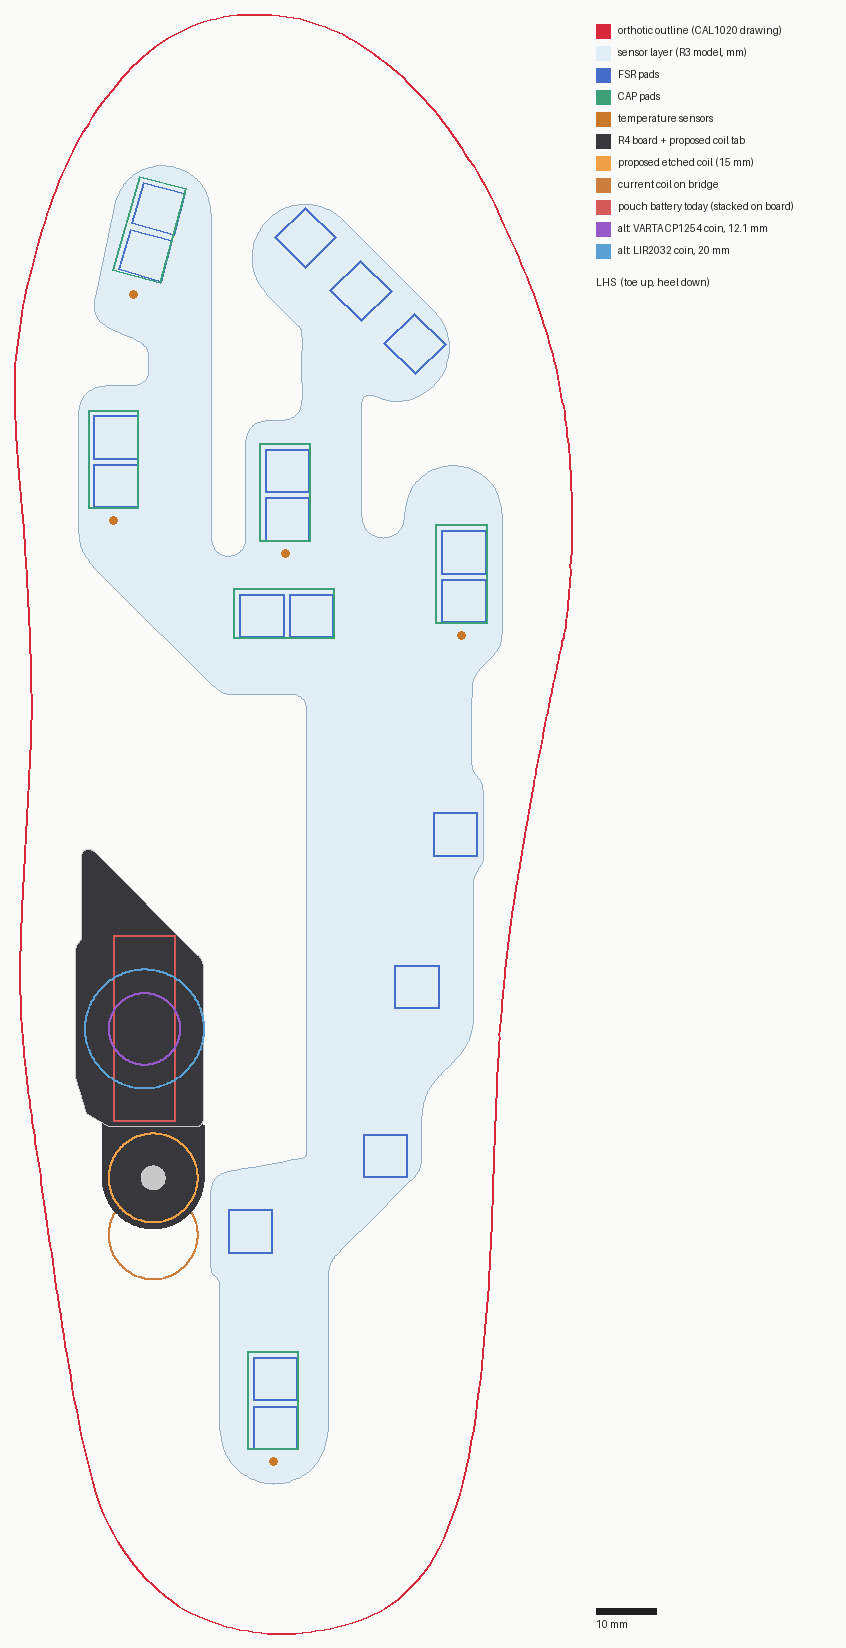
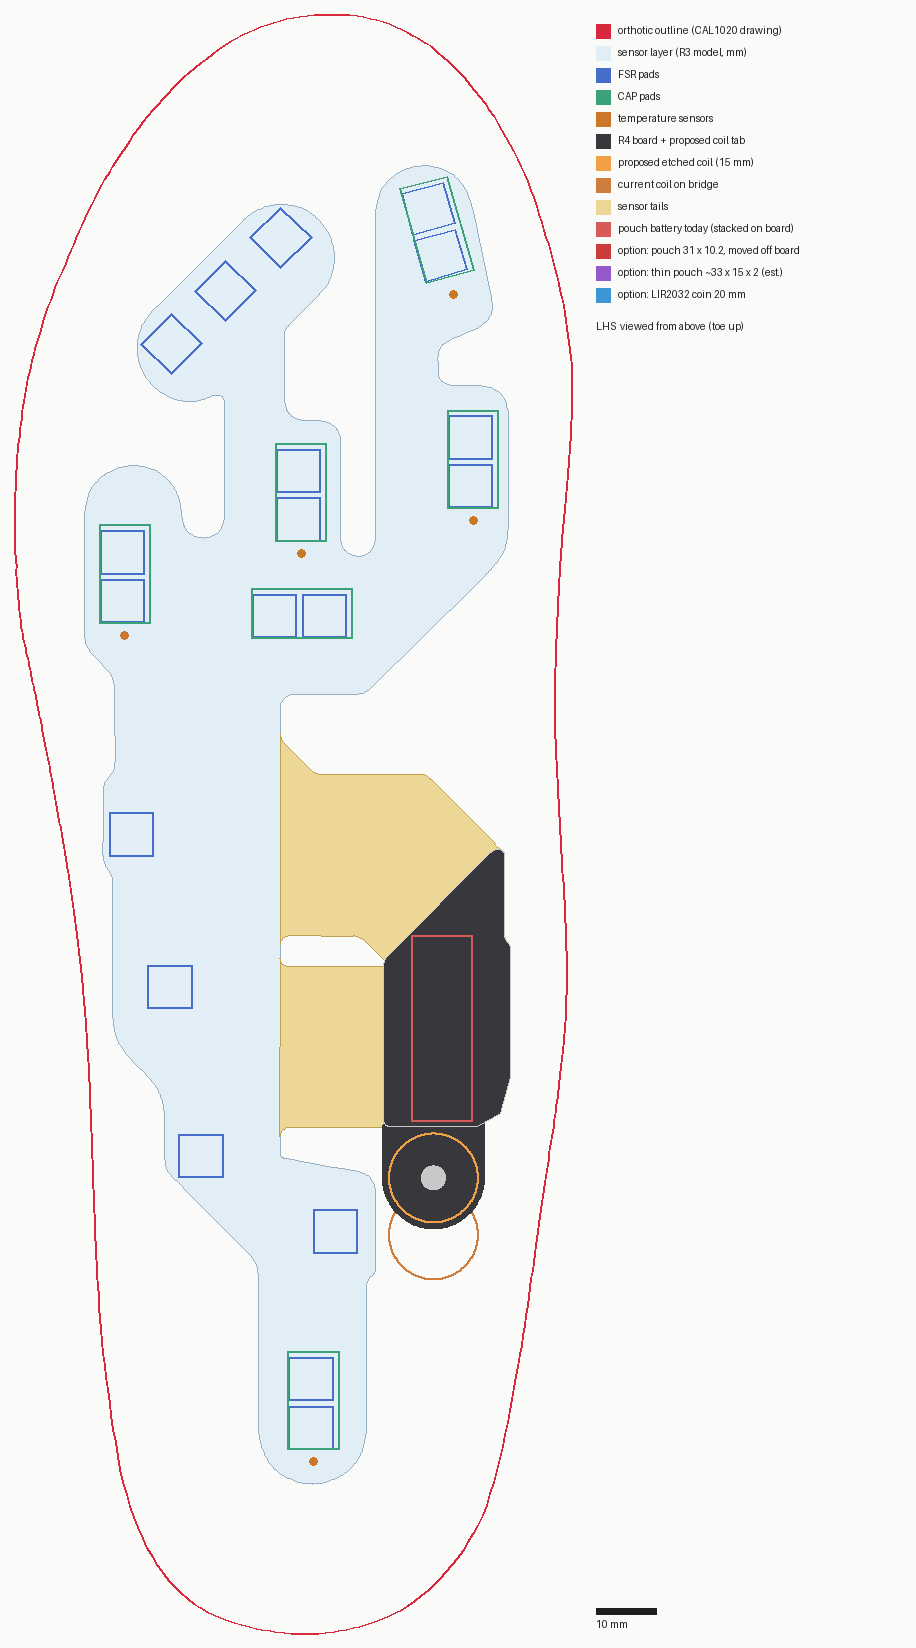
Layout study: battery placement search, sensor tails, view-from-above drawings
Grid search (1 mm / 15 deg) for flat battery positions inside the orthotic
(3 mm margin) and clear of sensor layer, tails and board+coil tab, nearest
to the board per zone. Toe-ward: pouch at 45 deg, 2.2 mm from board (LHS).
Heel-ward: pouch / thin pouch / LIR2032 just behind the coil tab. Nothing
fits beside the board. Reid's sketched positions clip the sensor layer and
sit 17-24 mm out. LHS drawing now mirrored so both feet show as viewed from
above (hallux medial); RHS was already in that view.

Claude-Session: https://claude.ai/code/session_01VVRppXprQDNcYst2JZ14Nv

diff --git a/hardware/r4-kicad/tools/layout_study.py b/hardware/r4-kicad/tools/layout_study.py
@@ -172,6 +172,62 @@ def orthotic_outline(memb):
                                 round((y1p - y0p) / ORTH_L, 3)]}
 
 
+EDGE_MARGIN = 3.0   # battery keeps this far inside the orthotic outline
+BATT_GAP = 1.0      # clearance from sensor layer, tails and board
+
+# candidate cells: (key, label, shape, dims, thickness mm)
+CELLS = [
+    ("pouch", "pouch today 31 x 10.2", "rect", (31.0, 10.2), 3.2),
+    ("thin", "thin pouch ~33 x 15 x 2 (est.)", "rect", (33.0, 15.0), 2.0),
+    ("lir2032", "LIR2032 coin 20 mm", "circle", (20.0,), 3.2),
+]
+
+
+def cell_geom(shape, dims, cx, cy, ang):
+    if shape == "circle":
+        return Point(cx, cy).buffer(dims[0] / 2, 48)
+    L_, W_ = dims
+    r = box(cx - L_ / 2, cy - W_ / 2, cx + L_ / 2, cy + W_ / 2)
+    return affinity.rotate(r, ang, origin=(cx, cy))
+
+
+def search_battery(allowed, keepout, board, by0, by1, sens):
+    """Exhaustive grid search (1 mm, 15 deg) for each candidate cell: legal
+    positions lie inside `allowed` and clear of `keepout`; within each zone
+    (toe-ward of the board / beside it / heel-ward) keep the one nearest the
+    board, i.e. the shortest battery connection."""
+    from shapely.prepared import prep
+    A, K = prep(allowed), prep(keepout)
+    pads = unary_union([Polygon(s_["poly"]) for k in ("FSR", "CAP")
+                        for s_ in sens.get(k, [])])
+    x0, _, x1, _ = allowed.bounds
+    out = []
+    for key, label, shape, dims, thick in CELLS:
+        best = {}
+        angs = [0] if shape == "circle" else range(0, 180, 15)
+        for ang in angs:
+            for cy in np.arange(by0 - 45, by1 + 45, 1.0):
+                for cx in np.arange(x0, x1, 1.0):
+                    g = cell_geom(shape, dims, cx, cy, ang)
+                    if not A.contains(g) or K.intersects(g):
+                        continue
+                    zone = ("toe-ward of board" if cy > by1 else
+                            "heel-ward of board" if cy < by0 else
+                            "beside board")
+                    d = g.distance(board)
+                    if zone not in best or d < best[zone][0]:
+                        best[zone] = (d, g, cx, cy, ang)
+        for zone, (d, g, cx, cy, ang) in sorted(best.items()):
+            out.append({"cell": key, "label": label, "zone": zone,
+                        "thickness_mm": thick,
+                        "centre": [round(cx, 1), round(cy, 1)],
+                        "angle_deg": ang,
+                        "gap_to_board_mm": round(d, 1),
+                        "clear_of_pads_mm": round(g.distance(pads), 1),
+                        "geom": g})
+    return out
+
+
 def register(src, dst):
     """Place src onto dst: 8 orientations, centroid-aligned, best IoU."""
     best = None
@@ -286,6 +342,18 @@ def study(side):
 
     orth, orth_meta = orthotic_outline(memb)
 
+    # sensor tails and their kapton covers: thin parts (0.25 / 0.70 mm) other
+    # than the membrane, larger than 5 mm, touching the board's neighbourhood
+    tails = unary_union([
+        footprint(p["tri"]) for p in parts
+        if p is not memb_part and p is not pcb_part
+        and (abs(p["size"][2] - 0.25) < 0.05 or abs(p["size"][2] - 0.70) < 0.05)
+        and max(p["size"][0], p["size"][1]) > 5
+        and footprint(p["tri"]).distance(pcb_r3) < 3.0])
+    keepout = unary_union([memb, tails, board_v3]).buffer(BATT_GAP)
+    allowed = orth.buffer(-EDGE_MARGIN)
+    placements = search_battery(allowed, keepout, board_v3, by0, by1, sens_mm)
+
     def edge_clearance(g):
         return round(orth.exterior.distance(g) if orth.contains(g)
                      else -g.difference(orth).area, 2)
@@ -307,7 +375,8 @@ def study(side):
         "tab": tab_only, "board_v3": board_v3,
         "tab_coil": Point(tab_c).buffer(COIL_OD / 2, 64),
         "magnet": Point(tab_c).buffer(MAGNET_D / 2, 32),
-        "sensors": sens_mm, "orth": orth,
+        "sensors": sens_mm, "orth": orth, "tails": tails,
+        "placements": placements,
         "report": {
             "r4_to_r3_iou": round(iou_b, 4), "r4_mirror": mir, "r4_rot": rot,
             "png_registration": reg,
@@ -318,6 +387,8 @@ def study(side):
             "proposed_board_mm": [round(board_v3.bounds[2] - board_v3.bounds[0], 2),
                                   round(board_v3.bounds[3] - board_v3.bounds[1], 2)],
             "tab_area_on_membrane_frac": round(on_membrane, 3),
+            "battery_placements": [
+                {k: v for k, v in pl.items() if k != "geom"} for pl in placements],
             "sensors_within_2mm_of_tab": hits,
             "orthotic_trace": orth_meta,
             "membrane_inside_orthotic": bool(orth.buffer(1.0).contains(memb)),
@@ -330,18 +401,25 @@ def study(side):
     }
 
 
-def draw(res, ppmm=6):
+# FSR1/CAP1 (hallux) land on the drawing's left for both models, so the LHS
+# model frame is a view from below; mirror it to show both feet from above.
+DORSAL_MIRROR = {"LHS": True, "RHS": False}
+
+
+def draw(res, ppmm=6, placements_to_draw=None):
     m = res["memb"]
+    mirror = DORSAL_MIRROR[res["side"]]
     allg = unary_union([m, res["cur_coil"], res["board_v3"], res["orth"]])
     x0, y0, x1, y1 = allg.bounds
     pad = 14
-    W = int((x1 - x0) * ppmm) + 2 * pad + 260
+    W = int((x1 - x0) * ppmm) + 2 * pad + 330
     H = int((y1 - y0) * ppmm) + 2 * pad
     img = Image.new("RGB", (W, H), (250, 250, 248))
     dr = ImageDraw.Draw(img)
 
     def P(x, y):
-        return (pad + (x - x0) * ppmm, pad + (y1 - y) * ppmm)
+        px = (x1 - x) if mirror else (x - x0)
+        return (pad + px * ppmm, pad + (y1 - y) * ppmm)
 
     def poly(g, fill=None, outline=None, width=1):
         geoms = getattr(g, "geoms", [g])
@@ -364,18 +442,22 @@ def draw(res, ppmm=6):
                 dr.ellipse([cx - 4, cy - 4, cx + 4, cy + 4], fill=col)
             else:
                 poly(pg, outline=col, width=2)
+    poly(res["tails"], fill=(236, 215, 150), outline=(190, 160, 80))
     poly(res["cur_coil"], outline=(205, 125, 60), width=2)
     poly(res["board_v3"], fill=(55, 55, 60))
     poly(res["r4"], outline=(200, 200, 200), width=1)
     for b in res["batt"]:
         poly(b, outline=(215, 90, 90), width=2)
-        # coin-cell alternatives, centred where the pouch cell sits today
-        for dia, col in ((12.1, (150, 90, 200)), (20.0, (90, 160, 210))):
-            poly(b.centroid.buffer(dia / 2, 64), outline=col, width=2)
+    cols = {"pouch": (205, 60, 60), "thin": (150, 90, 200),
+            "lir2032": (60, 150, 210)}
+    for i, pl in enumerate(placements_to_draw or []):
+        poly(pl["geom"], outline=cols[pl["cell"]], width=3)
+        cx, cy = P(pl["geom"].centroid.x, pl["geom"].centroid.y)
+        dr.text((cx - 4, cy - 6), str(i + 1), fill=cols[pl["cell"]])
     poly(res["tab_coil"], outline=(240, 160, 70), width=2)
     poly(res["magnet"], fill=(200, 200, 200))
 
-    lx = W - 250
+    lx = W - 320
     items = [((215, 40, 60), "orthotic outline (CAL1020 drawing)"),
              ((226, 238, 246), "sensor layer (R3 model, mm)"),
              ((70, 110, 200), "FSR pads"), ((60, 160, 120), "CAP pads"),
@@ -383,9 +465,11 @@ def draw(res, ppmm=6):
              ((55, 55, 60), "R4 board + proposed coil tab"),
              ((240, 160, 70), "proposed etched coil (15 mm)"),
              ((205, 125, 60), "current coil on bridge"),
+             ((236, 215, 150), "sensor tails"),
              ((215, 90, 90), "pouch battery today (stacked on board)"),
-             ((150, 90, 200), "alt: VARTA CP1254 coin, 12.1 mm"),
-             ((90, 160, 210), "alt: LIR2032 coin, 20 mm")]
+             ((205, 60, 60), "option: pouch 31 x 10.2, moved off board"),
+             ((150, 90, 200), "option: thin pouch ~33 x 15 x 2 (est.)"),
+             ((60, 150, 210), "option: LIR2032 coin 20 mm")]
     for i, (c, t) in enumerate(items):
         yy = pad + 10 + i * 22
         dr.rectangle([lx, yy, lx + 14, yy + 14], fill=c)
@@ -393,7 +477,12 @@ def draw(res, ppmm=6):
     dr.rectangle([lx, H - 40, lx + 10 * ppmm, H - 34], fill=(30, 30, 30))
     dr.text((lx, H - 30), "10 mm", fill=(30, 30, 30))
     dr.text((lx, pad + 10 + len(items) * 22 + 10),
-            f"{res['side']}  (toe up, heel down)", fill=(30, 30, 30))
+            f"{res['side']}  viewed from above (toe up)", fill=(30, 30, 30))
+    for i, pl in enumerate(placements_to_draw or []):
+        dr.text((lx, pad + 10 + len(items) * 22 + 34 + i * 16),
+                f"{i + 1}: {pl['label']}, {pl['zone']}, "
+                f"{pl['gap_to_board_mm']} mm from board",
+                fill=(30, 30, 30))
     return img
 
 
@@ -403,6 +492,8 @@ if __name__ == "__main__":
     for side in sys.argv[1:] or ["LHS", "RHS"]:
         res = study(side)
         draw(res).save(OUT / f"layout_{side}.png")
+        draw(res, placements_to_draw=res["placements"]).save(
+            OUT / f"battery_options_{side}.png")
         reports[side] = res["report"]
         print(side, json.dumps(res["report"], indent=1))
     (OUT / "layout.json").write_text(json.dumps(reports, indent=1))

diff --git a/HARDWARE_V3_DESIGN_BRIEF.md b/HARDWARE_V3_DESIGN_BRIEF.md
@@ -151,6 +151,19 @@ The overall figure is high because the battery is stacked on top of the componen
   - A metal battery directly behind the coil absorbs the charging field. It needs a ferrite sheet between coil and battery, as phones use, and the coupling must be re-tuned with the battery fitted.
   - The stack becomes PCB 0.4 + ferrite ~0.3 + cell, about 0.7 mm thicker than placing the cell beside the board.
   - The 4 × 3 mm alignment magnet in the coil centre would sit directly over the battery.
+- **Battery placement search** (`layout_study/battery_options_{LHS,RHS}.png`, size S): a 1 mm / 15° grid search for flat, unstacked positions. Each candidate must sit ≥ 3 mm inside the orthotic outline and ≥ 1 mm clear of the sensor layer, the sensor tails, and the board with its coil tab. The result is the nearest legal position to the board in each zone:
+  - **Toe-ward** (Reid's "battery in front of the PCB" layout):
+    - Today's 31 × 10.2 pouch fits diagonally at 45°, 2.2 mm from the board on LHS (upright at 6.3 mm on RHS, whose tails differ slightly).
+    - A LIR2032 fits 10 mm from the board.
+    - Reid's two sketched positions on LHS clip the sensor-layer edge (≈14 and 32 mm²) and sit 17–24 mm from the board. The search position is the same idea, pulled in tight.
+  - **Heel-ward, behind the coil tab:**
+    - Pouch at ~105°, 1.3 mm away.
+    - Thin 33 × 15 × 2 pouch (estimated cell), 1.2 mm away.
+    - LIR2032, 1.0 mm away.
+    - This area takes heel-strike load, which suits a steel-can coin cell better than a pouch.
+  - **Beside the board:** nothing fits; the sensor tails occupy it.
+  - The thin pouch fits only heel-ward.
+  - **Caveat:** tail and sensor-layer outlines come from the R3 model's trace layer. The real laminate/RF-shield outline is somewhat wider, so placements should be re-checked against Reid's full-stack outline and every size, XXS first.
 - **Next lever: a thinner cell with a larger footprint.** Pouch capacity scales roughly with volume. Catalogue cells show the trend: 4 × 20 × 30 mm ≈ 200 mAh and 5 × 20 × 30 mm ≈ 250 mAh. By extrapolation, a ~2 × 20 × 30 mm cell should roughly match today's 76 mAh at about two-thirds the thickness; this is an estimate to confirm with a supplier, e.g. a Master Instruments custom pack with protection and a connector. Flexible cells such as Jenax J.Flex (0.5–2.3 mm, 10 mAh upward; dynamic-bend tested at 20 mm radius) are a longer-shot lead for a cell that tolerates insole flexing.
 
 **Alternative worth a serious look — NFC WLC (13.56 MHz):** purpose-built for etched PCB antennas (only ~1–5 µH needed; PCB Q of 30–60 is easy), with power classes from 250 mW ([NFC Forum WLC](https://nfc-forum.org/build/specifications/wireless-charging/)). The **Renesas PTX30W** listener IC integrates the rectifier *and* a 5–250 mA Li-ion charger + LDO in 1.78 mm² — it would replace the coil, the rectifier chain (D1/D2/C37/C40/C42), *and* the BQ24210 ([Renesas](https://www.renesas.com/en/products/wireless-connectivity/nfc/ptx30w-highly-integrated-scalable-nfc-wlc-listener-i-c-interface-and-board-pmic-ldo)). Cost: the charger puck must be respun around a PTX130W-class poller, and both sides need 13.56 MHz tuning discipline. **If the puck is being redesigned anyway, this is a genuinely strong candidate; if the puck must stay, the retuned 125 kHz PCB spiral is the pragmatic fix.**
